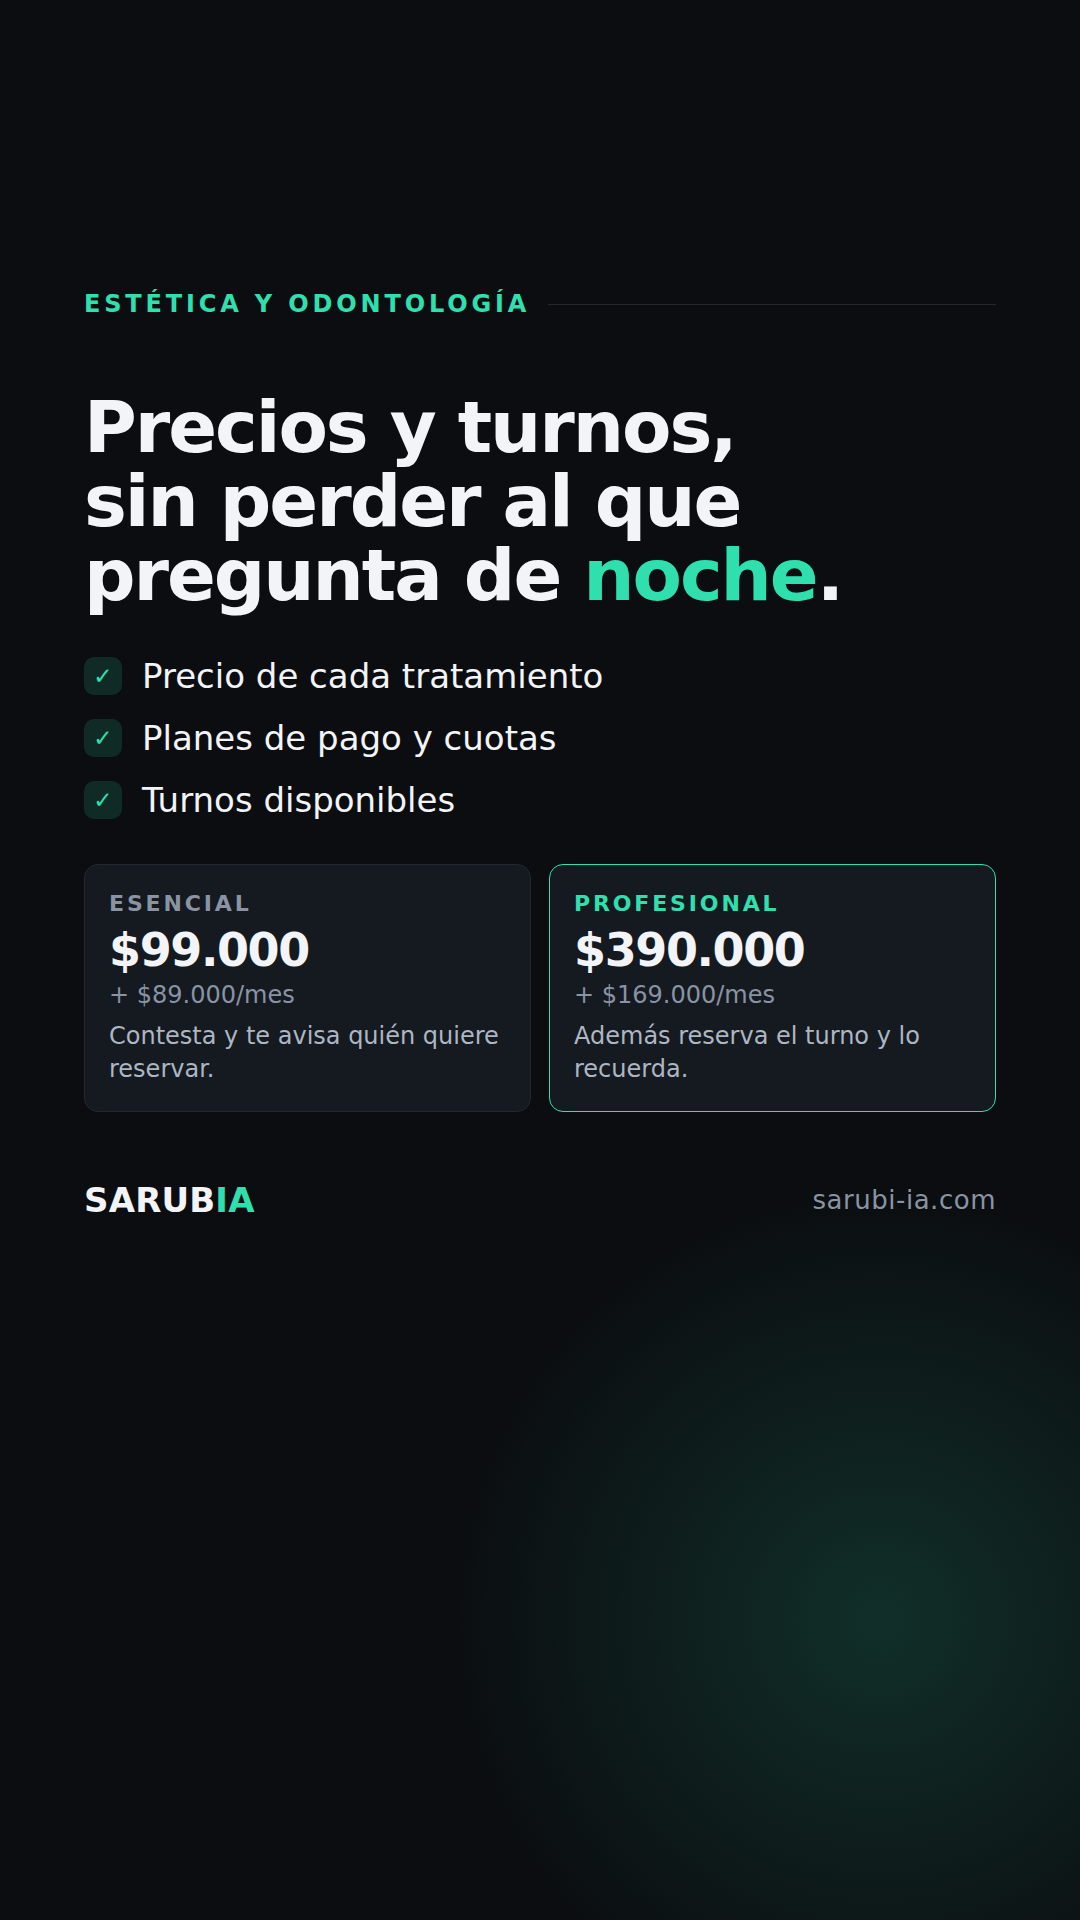
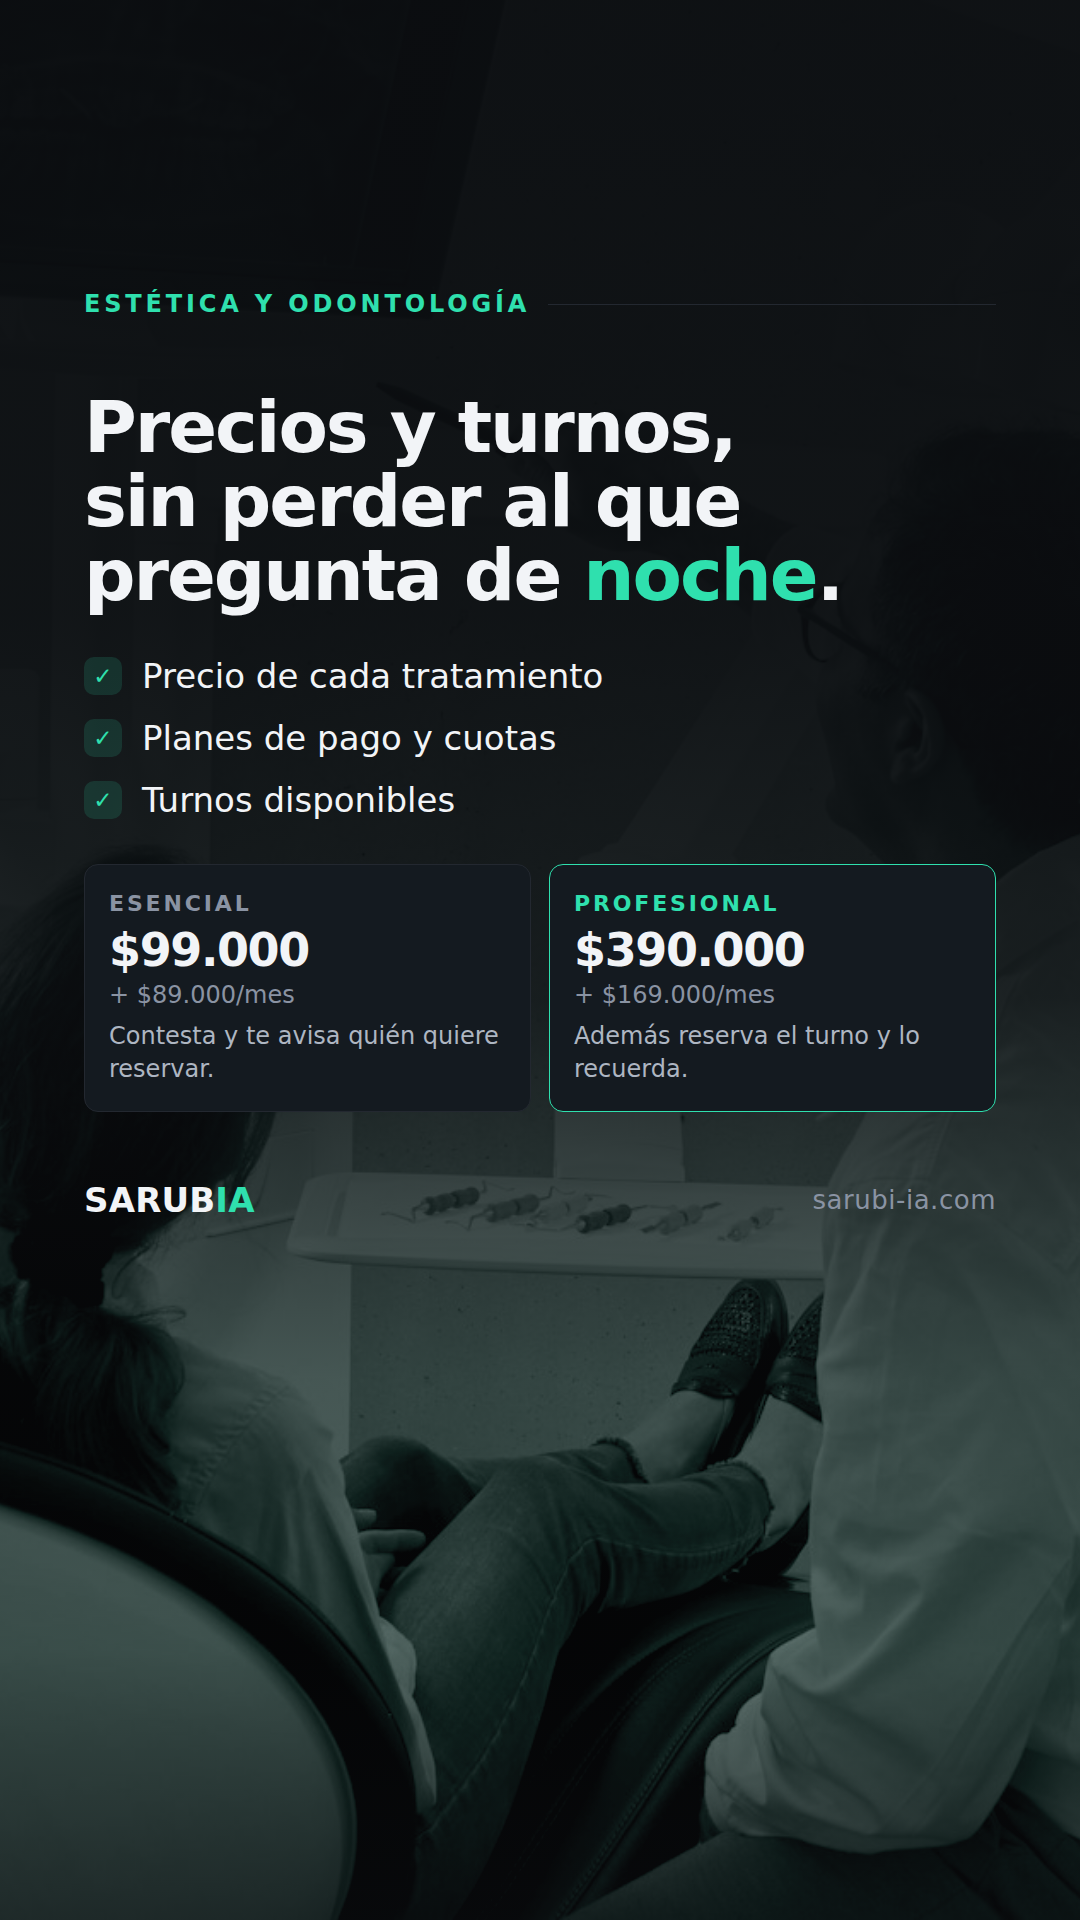
Poner una foto de fondo en cada destacada
Las siete eran el mismo rectangulo negro. Ahora cada una lleva una foto de su
rubro, pero no pegada tal cual: van tres capas y el orden es lo que hace que
funcione. La foto en blanco y negro y bajada de brillo, encima un tinte verde
en modo color que la mete en la paleta, y arriba un velo casi opaco donde esta
el texto que se abre hacia abajo.

Ese degradado resuelve las dos cosas juntas. El texto sigue sobre el mismo
negro de siempre, asi que la identidad no se negocia. Y la foto aparece justo
en la franja de abajo, que hasta ahora era un rectangulo vacio esperando el
sticker.

Las fotos se guardan enteras y el encuadre lo decide object-fit. El primer
intento las bajo ya recortadas a 1080x1920 y salio mal: el recorte automatico
elige la zona con mas detalle, que en una foto de gimnasio es el piso y en una
de telefono es la tela del sillon. Tres de las siete perdieron el sujeto.

Son de Unsplash, licencia libre para uso comercial sin atribucion obligatoria.
Los identificadores quedan en fondos/CREDITOS.md por si hay que volver a
bajarlas o cambiarlas.

Claude-Session: https://claude.ai/code/session_01FpebnBDAeZwhMGF9Jn3pu8

Changed region(s): [[0.0, 0.5312, 1.0, 1.0]]

diff --git a/instagram/lib/plantilla.js b/instagram/lib/plantilla.js
@@ -202,7 +202,19 @@ function placa(item, marca, formato, opciones) {
       : (item.pie_marca === 'handle' ? marca.handle : marca.sitio));
 
   const cta = d.cta ? `<span class="cta">${texto(d.cta)}</span>` : '';
-  const extra = [o.clase, d.hueco ? 'hueco' : ''].filter(Boolean).join(' ');
+
+  // Foto de fondo, solo en historia y solo sobre tinta.
+  //
+  // Van tres capas y el orden importa: la foto en blanco y negro, encima un
+  // tinte verde que la mete en la paleta, y arriba un velo que es casi opaco
+  // donde va el texto y se abre abajo. Así la identidad no se negocia — el
+  // texto se lee sobre el mismo negro de siempre — y la foto aparece justo en
+  // la franja de abajo, que hasta ahora era un rectángulo negro vacío.
+  const foto = (formato === 'historia' && item.foto && item.fondo !== 'claro')
+    ? `<div class="foto"><img src="../../fondos/${esc(item.foto)}" alt=""${item.encuadre ? ` style="object-position:${esc(item.encuadre)}"` : ''}><span class="tinte"></span><span class="velo"></span></div>`
+    : '';
+
+  const extra = [o.clase, d.hueco ? 'hueco' : '', foto ? 'con-foto' : ''].filter(Boolean).join(' ');
 
   // El hueco del sticker no mide siempre lo mismo: una encuesta o una caja de
   // preguntas ocupan el doble que un sticker de enlace. "hueco": true usa la
@@ -212,6 +224,7 @@ function placa(item, marca, formato, opciones) {
     : '';
 
   return `<div class="placa f-${formato} ${fondo}${extra ? ' ' + extra : ''}" id="${esc(id)}" data-archivo="${esc(item.archivo)}"${alto}>
+${foto}
   <div class="cabeza"><span class="eyebrow">${esc(item.eyebrow)}</span><span class="raya"></span></div>
   <div class="cuerpo">${armar(d)}${cta}</div>
   <div class="pie">${firma(marca)}<span class="handle">${esc(pieDerecha)}</span></div>
@@ -462,6 +475,36 @@ function estilos(marca) {
   .celda-t{font-weight:600;letter-spacing:-.01em;line-height:1.22;}
   .lista.col-2 .celda-t{font-size:28px;}
   .lista.col-1 .celda-t{font-size:42px;letter-spacing:-.015em;line-height:1.15;}
+
+  /* --- foto de fondo --- */
+  .foto{position:absolute;inset:0;z-index:0;overflow:hidden;}
+  .foto img{
+    width:100%;height:100%;object-fit:cover;display:block;
+    /* En blanco y negro y bajada: una foto a todo color pelea con el verde y
+       la placa deja de parecer de la misma marca que las demás. */
+    filter:grayscale(1) contrast(1.08) brightness(.66);
+    /* Las fotos se guardan enteras, en su proporción original, y el encuadre
+       lo decide acá el navegador. Recortarlas al bajarlas dejaba afuera al
+       sujeto: el recorte automático elegía la zona con más detalle, que en una
+       foto de gimnasio es el piso. */
+    object-position:center 58%;
+  }
+  .foto span{position:absolute;inset:0;display:block;}
+  .tinte{background:var(--verde-prof);mix-blend-mode:color;opacity:.55;}
+  /* Las paradas siguen la placa: opaco hasta donde termina el contenido,
+     abierto en la franja del sticker, y un poco más oscuro en el borde de
+     abajo para que la imagen no se corte de golpe. */
+  .velo{
+    background:linear-gradient(180deg,
+      rgba(11,13,16,.97) 0%,
+      rgba(11,13,16,.95) 32%,
+      rgba(11,13,16,.86) 52%,
+      rgba(11,13,16,.46) 72%,
+      rgba(11,13,16,.38) 86%,
+      rgba(11,13,16,.68) 100%);
+  }
+  /* Con foto, el halo verde sobraría: ya hay textura abajo. */
+  .f-historia.con-foto.oscuro::after{display:none;}
 
   /* --- cifra --- */
   .cifra-et{font-weight:600;letter-spacing:.14em;text-transform:uppercase;}

diff --git a/instagram/lib/destacada.js b/instagram/lib/destacada.js
@@ -80,7 +80,9 @@ function documento(contenido, marca) {
         archivo: `${d.slug}-${String(i + 1).padStart(2, '0')}`,
         tipo: h.tipo,
         fondo: h.fondo,
-        eyebrow: h.eyebrow || d.nombre
+        eyebrow: h.eyebrow || d.nombre,
+        foto: h.foto || d.foto,
+        encuadre: h.encuadre || d.encuadre
       };
       item.historia = h.historia;
       return plantilla.placa(item, marca, 'historia');

diff --git a/instagram/fondos/CREDITOS.md b/instagram/fondos/CREDITOS.md
@@ -1,0 +1,21 @@
+# Fotos de fondo
+
+Las siete salen de **Unsplash**, bajo la [Licencia Unsplash](https://unsplash.com/license):
+uso comercial permitido, sin atribución obligatoria.
+
+Se bajaron recortadas a 1080 × 1920 desde el CDN de Unsplash, que es el tamaño
+de una historia. El identificador de cada una queda anotado acá por si hay que
+volver a bajarla o revisar la ficha original en `unsplash.com/photos/<id>`.
+
+| Archivo | Qué muestra | Identificador |
+|---|---|---|
+| `como-funciona.jpg` | Un teléfono con las aplicaciones de mensajería | `1611746872915-64382b5c76da` |
+| `inmobiliarias.jpg` | Una maqueta de casa con las llaves | `1560518883-ce09059eeffa` |
+| `clinicas.jpg` | La recepción de una clínica | `1519494026892-80bbd2d6fd0d` |
+| `estetica.jpg` | Un consultorio odontológico | `1606811841689-23dfddce3e95` |
+| `gimnasios.jpg` | Una fila de mancuernas en un gimnasio | `1534438327276-14e5300c3a48` |
+| `concesionarias.jpg` | Manejando al atardecer | `1449965408869-eaa3f722e40d` |
+| `distribuidoras.jpg` | El pasillo de un depósito | `1553413077-190dd305871c` |
+
+Para cambiar una: se reemplaza el archivo con el mismo nombre y se vuelve a
+correr `node destacadas.js`. No hay que tocar nada más.
